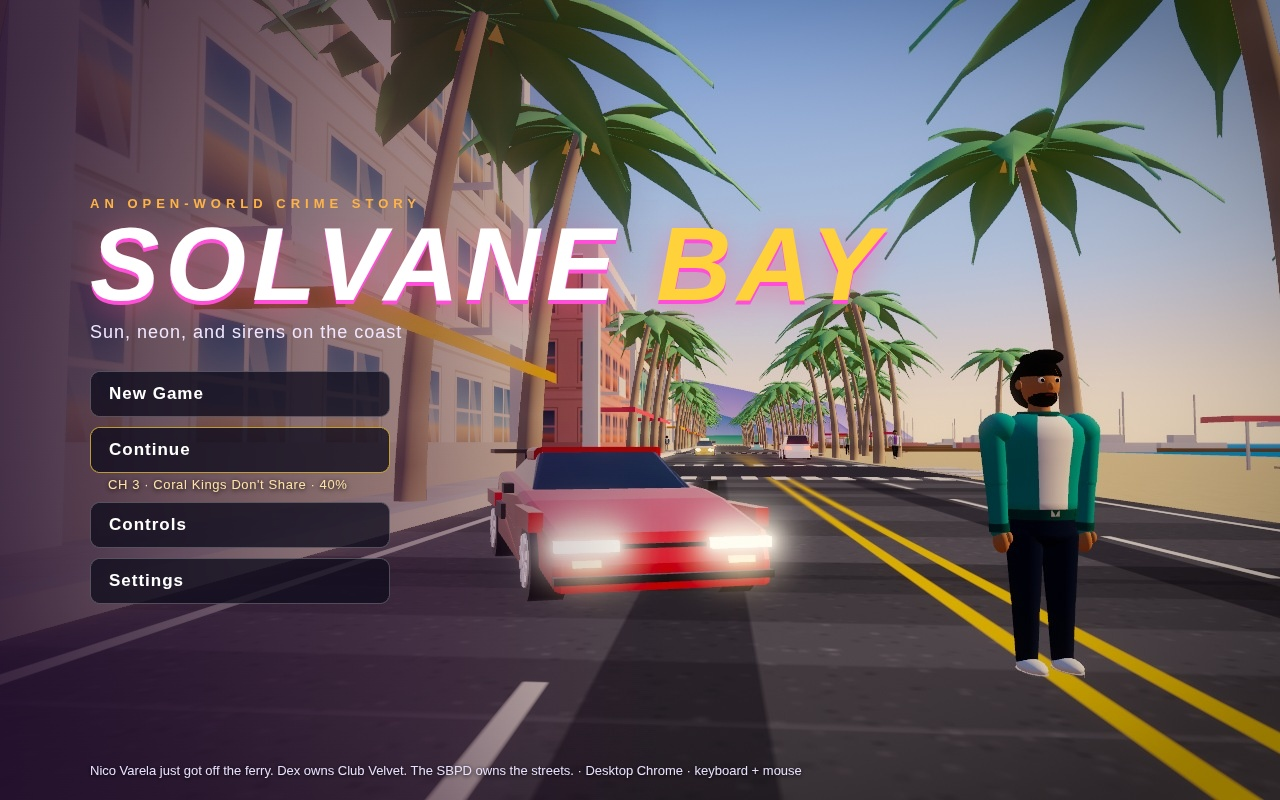
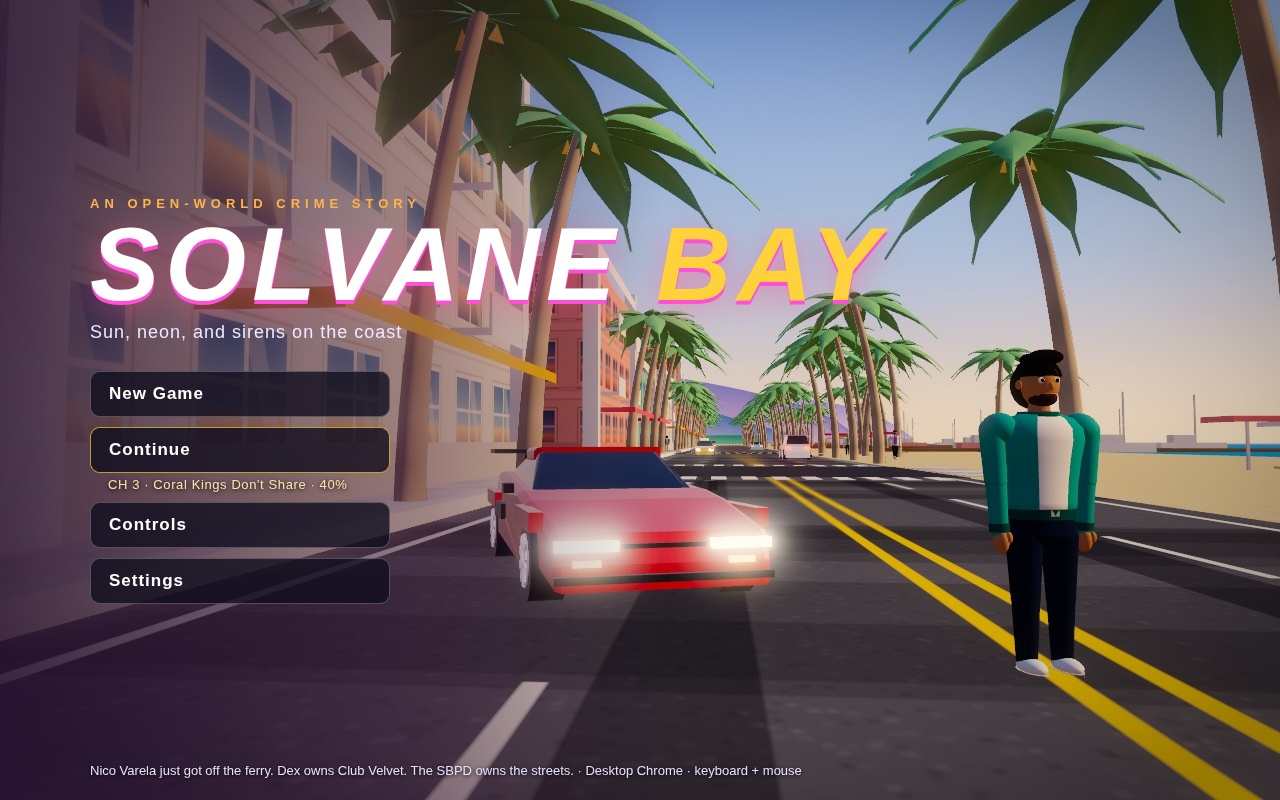
Final screenshots, minimap redraw in staged shots, README feature list

diff --git a/game/src/shots/screenshotScenes.js b/game/src/shots/screenshotScenes.js
@@ -24,7 +24,7 @@ function clearTraffic() { for (const c of G.cars.slice()) if (c.kind === 'traffi
 function fakeMission(idx, stageIdx, text, timer) {
   const def = MISSIONS[idx]; G.mission = { def, idx: stageIdx, stage: def.stages[stageIdx], timer, total: def.stages.length, text, enemies: [], car: null, collected: 0 };
 }
-function finish(api, frames = 2) { G.hudRate = 1; const gl0 = G.renderer.getContext();  for (let i = 0; i < frames; i++) { api.updateHud(0.016); api.renderFrame(true); gl0.finish(); gl0.readPixels(0, 0, 1, 1, gl0.RGBA, gl0.UNSIGNED_BYTE, new Uint8Array(4)); } { const px = new Uint8Array(4); gl0.readPixels(640, 700, 1, 1, gl0.RGBA, gl0.UNSIGNED_BYTE, px); const p2 = new Uint8Array(4); gl0.readPixels(640, 100, 1, 1, gl0.RGBA, gl0.UNSIGNED_BYTE, p2); document.body.dataset.px = px.join(',') + '/' + p2.join(','); } { const c = G.renderer.domElement, r = c.getBoundingClientRect(); document.body.dataset.sz = [c.width, c.height, r.x, r.y, r.width, r.height, innerWidth, innerHeight, devicePixelRatio, getComputedStyle(c).display, getComputedStyle(c).visibility].join(','); } document.body.dataset.cam = [G.camera.position.x, G.camera.position.y, G.camera.position.z, G.p.x, G.p.z, G.camera.fov].map((v) => v.toFixed(1)).join(',') + ' lost=' + G.renderer.getContext().isContextLost() + ' err=' + G.renderer.getContext().getError() + ' calls=' + G.renderer.info.render.calls + ' tris=' + G.renderer.info.render.triangles; if (location.search.includes('overlay')) api.showScreen('pause'); if (location.search.includes('nohud')) document.getElementById('hud').style.display = 'none'; }
+function finish(api, frames = 2) { G.hudRate = 1; const gl0 = G.renderer.getContext();  for (let i = 0; i < frames; i++) { G.hudRate = 1; api.updateHud(0.016); api.renderFrame(true); gl0.finish(); gl0.readPixels(0, 0, 1, 1, gl0.RGBA, gl0.UNSIGNED_BYTE, new Uint8Array(4)); } { const px = new Uint8Array(4); gl0.readPixels(640, 700, 1, 1, gl0.RGBA, gl0.UNSIGNED_BYTE, px); const p2 = new Uint8Array(4); gl0.readPixels(640, 100, 1, 1, gl0.RGBA, gl0.UNSIGNED_BYTE, p2); document.body.dataset.px = px.join(',') + '/' + p2.join(','); } { const c = G.renderer.domElement, r = c.getBoundingClientRect(); document.body.dataset.sz = [c.width, c.height, r.x, r.y, r.width, r.height, innerWidth, innerHeight, devicePixelRatio, getComputedStyle(c).display, getComputedStyle(c).visibility].join(','); } document.body.dataset.cam = [G.camera.position.x, G.camera.position.y, G.camera.position.z, G.p.x, G.p.z, G.camera.fov].map((v) => v.toFixed(1)).join(',') + ' lost=' + G.renderer.getContext().isContextLost() + ' err=' + G.renderer.getContext().getError() + ' calls=' + G.renderer.info.render.calls + ' tris=' + G.renderer.info.render.triangles; if (location.search.includes('overlay')) api.showScreen('pause'); if (location.search.includes('nohud')) document.getElementById('hud').style.display = 'none'; }
 function typed() { dlg.t = 99; }
 
 // Cover: eastbound down the palm boulevard toward the sea and the setting sun, three SBPD cruisers closing in.

diff --git a/README.md b/README.md
@@ -7,14 +7,17 @@
 SOLVANE BAY is an original open-world crime game for desktop Chrome (keyboard + mouse): a sun-soaked low-poly coastal city you explore on foot and by car, as newcomer Nico Varela working up from Dex's Club Velvet to a marina heist.
 
 - Procedural three.js city at golden hour: azure-to-peach sky dome with the sun setting over the sea, pastel art-deco stucco blocks (balconies, awnings, cornices, rooftop AC units and water tanks), glass towers downtown, curved-trunk palm boulevards, bus stops, benches, hydrants, our own billboard ads, beach, marina, neon nightlife district, docks, parks; day/night clock, lit windows
-- Hand-written post-processing: HDR render target, bright-pass bloom pyramid, ACES filmic tone mapping, warm colour grade, vignette and a speed-driven chromatic fringe (Settings > Visual quality, with a plain-render fallback)
+- Hand-written post-processing: HDR render target, bright-pass bloom pyramid, ACES filmic tone mapping, warm colour grade, vignette and a speed-driven chromatic fringe ; Settings > Graphics quality defaults to Auto, which steps resolution, shadows and bloom down until the frame rate holds
 - Sleek extruded car models with clearcoat paint, tinted glass, spoked rims and glowing head/tail lights: VELOCE GT sports car, SBPD cruisers in a navy/teal livery with red/blue light bars, taxi, van, SUV, compact, convertible
+- Smooth low-poly people: rounded heads with faces and hair styles, open jackets with collars, hands and shoes; varied pedestrian outfits, SBPD officers in navy uniforms with caps and badges, Nico in a teal bomber over a white tee
 - Third-person on foot (WASD, aim, SMG/pistol/shotgun/fists) and arcade driving with drift, damage, smoke, explosions, skid marks, chase camera with speed FOV
 - Steal any car; lane-following traffic with signals; pedestrians that flee gunfire
 - Wanted level 0-5: SBPD patrol cars that pursue and ram, roadblocks, officers on foot, a police helicopter, CUFFED / FLATLINED respawns
 - Six-chapter story with portraits and dialogue (steal, deliver, collect, shoot-out, car chase, escape, heist), plus taxi fares, a street race, 16 hidden packages
 - Respect levels unlock weapons at the Calder Arms shop; Glow Coat Respray clears heat; health/armor pickups
-- Full HUD (mission card, SBPD response list, minimap, radio card, speedometer), city map (M), pause menu, save/load, three synthesized radio stations
+- Full HUD: mission card, SBPD response list, radio card, speedometer, on-screen waypoint with distance, and a rotating minimap with the road network, parks, beach and sea, a GPS route along the streets, north marker, icon blips (flashing police, objective star, shops), district name and a red/blue rim when wanted
+- City map (M) with street names and clear district labels, pause menu, save/load, three synthesized radio stations
+- Fixed-step simulation (1/60 s with an accumulator) so low frame rates never run in slow motion; menu clicks never fire the gun
 - No build step, no network, no binary assets: all geometry, textures and sound are generated at run time
 
 ## Run it
@@ -22,6 +25,8 @@ SOLVANE BAY is an original open-world crime game for desktop Chrome (keyboard + 
 ```sh
 node serve.ts   # then open http://localhost:8080 in desktop Chrome
 ```
+
+Checks: `?selftest=1` (page title SELFTEST PASS/FAIL), `node tools/playtest.mjs` (drives the real game over the Chrome DevTools Protocol: New Game, walk, sprint, shoot, wanted level and police, steal a car, drive, map, pause, resume; prints errors and fps), `node tools/take-screenshots.mjs [scene]`.
 
 ---
 
